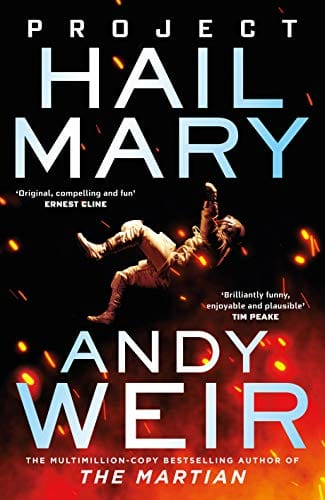
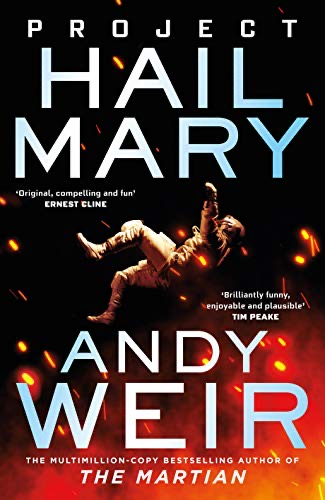
Rebuild Reading page: 99 books in 18 category sections
- New src/data/books.ts generated from the master spreadsheet: 99 unique
  books (one duplicate row removed) grouped into 18 categories in a curated
  order, obvious title typos corrected
- books.astro renders one titled section per category with continuous
  numbering; card markup, placeholder fallback and reveal behaviour unchanged
- 98 cover images normalized (max 460px wide, jpeg q72, 4.9 MB total);
  Portfolio Analysis has no cover yet and renders the blueprint placeholder

diff --git a/src/data/books.ts b/src/data/books.ts
@@ -1,0 +1,204 @@
+// Reading recommendations, grouped by category. Generated from the master
+// spreadsheet (Books.xlsx); covers live in public/images/books/<s>.jpg.
+export interface Book {
+  t: string; // title
+  a: string; // author
+  s: string; // cover slug
+}
+
+export interface BookCategory {
+  name: string;
+  books: Book[];
+}
+
+export const categories: BookCategory[] = [
+  {
+    name: "Tech and Futurism",
+    books: [
+      { t: "Bitcoin Billionaires", a: "Ben Mezrich", s: "bitcoin-billionaires" },
+      { t: "Bold", a: "Peter Diamandis", s: "bold" },
+      { t: "How to Create a Mind", a: "Ray Kurzweil", s: "how-to-create-a-mind" },
+      { t: "The Singularity is Near", a: "Ray Kurzweil", s: "singularity-near" },
+      { t: "Chip War", a: "Chris Miller", s: "chip-war" },
+      { t: "Clean Code", a: "Robert C. Martin", s: "clean-code" },
+      { t: "The Coming Wave", a: "Mustafa Suleyman", s: "the-coming-wave" },
+      { t: "Elon Musk", a: "Walter Isaacson", s: "elon-musk" },
+      { t: "The Second Machine Age", a: "Erik Brynjolfsson & ANdrew McAfee", s: "the-second-machine-age" },
+      { t: "The Inevitable", a: "Kevin Kelley", s: "the-inevitable" },
+      { t: "Boom: Bubbles and the End of Stagnation", a: "Byrne Hobart", s: "boom" },
+      { t: "How We Got To Now", a: "Steven Johnson", s: "how-we-got-to-now" },
+    ],
+  },
+  {
+    name: "Startups & Angel Investing",
+    books: [
+      { t: "Bad Blood", a: "John Carreyrou", s: "bad-blood" },
+      { t: "Blitzscaling", a: "Reid Hoffman", s: "blitzscaling" },
+      { t: "How Google Works", a: "Eric Schmidt", s: "how-google-works" },
+      { t: "Seven Powers: The Foundations of Business Strategy", a: "Hamilton Helmer", s: "seven-powers" },
+      { t: "Angel", a: "Jason Calacanis", s: "angel" },
+      { t: "The Cold Start Problem", a: "Andrew Chen", s: "the-cold-start-problem" },
+      { t: "Amp It Up", a: "Frank Slootman", s: "amp-it-up" },
+      { t: "BUILD", a: "Tony Fadell", s: "build" },
+      { t: "Startup Boards", a: "Brad Feld", s: "startup-boards" },
+      { t: "The Startup Owner's Manual", a: "Steva Blank and Bob Dorf", s: "the-startup-owners-manual" },
+      { t: "Escaping the Build Trap", a: "Melissa Perri", s: "escaping-the-build-trap" },
+      { t: "Product Management in Practice", a: "Matt LeMay", s: "product-management-in-practice" },
+      { t: "Angel Investing", a: "David Rose", s: "angel-investing" },
+      { t: "Zero to IPO", a: "Frederic Kerrest", s: "zero-to-ipo" },
+      { t: "Aiming High", a: "Atsuo Inoue", s: "aiming-high" },
+    ],
+  },
+  {
+    name: "Finance, Venture Capital, Investing & Trading",
+    books: [
+      { t: "Reminiscences of a Stock Operator", a: "Edwin Lefevre", s: "reminiscences-of-a-stock-operator" },
+      { t: "Portfolio Analysis", a: "David Swanson", s: "portfolio-analysis" },
+      { t: "A Man For All Markets", a: "Edward O. Thorp", s: "a-man-for-all-markets" },
+      { t: "Real Options", a: "Martha Amram and Nailin Kulatilaka", s: "real-options" },
+      { t: "Venture Deals", a: "Brad Feld", s: "venture-deals" },
+      { t: "VC - An American History", a: "Thomas Nicholas", s: "vc-american-history" },
+      { t: "The Power Law", a: "Sebastian Mallaby", s: "power-law" },
+      { t: "The Venture Mindset", a: "Ilya Strebulaev", s: "venture-mindset" },
+    ],
+  },
+  {
+    name: "Energy & Commodities",
+    books: [
+      { t: "Trillion Dollar Baby", a: "Paul Cleary", s: "trillion-dollar-baby" },
+      { t: "Crude Volatility", a: "Robert McNally", s: "crude-volatility" },
+      { t: "The Quest", a: "Daniel Yergin", s: "the-quest" },
+      { t: "The Smartest Guys in the Room", a: "Bethany McLean", s: "the-smartest-guys-in-the-room" },
+      { t: "How the World Really Works", a: "Vaclav Smil", s: "how-world-works" },
+      { t: "Volt Rush", a: "Henry Sanderson", s: "volt-rush" },
+      { t: "Material World", a: "Ed Conway", s: "material-world" },
+    ],
+  },
+  {
+    name: "Strategy, Management and Skills",
+    books: [
+      { t: "The Goal", a: "Eliyahu M. Goldratt", s: "the-goal" },
+      { t: "Business Model You", a: "Alexander Osterwalder", s: "business-model-you" },
+      { t: "One Million Followers", a: "Brendan Kane", s: "one-million-followers" },
+      { t: "$100M Leads", a: "Alex Hormozi", s: "100m-leads" },
+      { t: "Oversubscribed", a: "Daniel Priestley", s: "oversubscribed" },
+      { t: "Entrepreneur Revolution", a: "Daniel Priestley", s: "entrepreneur-revolution" },
+      { t: "Key Person of Influence", a: "Daniel Priestley", s: "key-person-of-influence" },
+    ],
+  },
+  {
+    name: "Behaviour and Psychology",
+    books: [
+      { t: "Misbehaving", a: "Richard Thaler", s: "misbehaving" },
+      { t: "Thinking in Bets", a: "Annie Duke", s: "thinking-bets" },
+      { t: "The Signal and the Noise", a: "Nate Silver", s: "the-signal-and-the-noise" },
+      { t: "Nudge", a: "Richard Thaler", s: "nudge" },
+      { t: "Never Split the Difference", a: "Chris Voss", s: "never-split-the-difference" },
+    ],
+  },
+  {
+    name: "Financial History",
+    books: [
+      { t: "When Genius Failed", a: "Roger Lowenstein", s: "when-genius-failed" },
+      { t: "The Ascent of Money", a: "Niall Ferguson", s: "the-ascent-of-money" },
+      { t: "The Man Who Solved the Market", a: "Gregory Zuckerman", s: "the-man-who-solved-the-market" },
+      { t: "Stress Test", a: "Timothy Geithner", s: "stress-test" },
+      { t: "Principles for Dealing with the Changing World Order", a: "Ray Dalio", s: "principles-for-dealing-with-the-changing-world-order" },
+    ],
+  },
+  {
+    name: "Space, Maths, Physics, Chemistry, Biology",
+    books: [
+      { t: "Just Six Numbers", a: "Martin Rees", s: "just-six-numbers" },
+      { t: "Prisoner's Dilemma", a: "William Poundstone", s: "prisoners-dilemma" },
+      { t: "The Case for Mars", a: "Robert Zubrin", s: "the-case-for-mars" },
+      { t: "The Pleasure of Finding Things Out", a: "Richard Feynman", s: "finding-things-out" },
+      { t: "Why We Get Sick", a: "Benjamin Bikman", s: "why-we-get-sick" },
+      { t: "Dark Matter and Dark Energy", a: "Brian Clegg", s: "dark-matter-and-dark-energy" },
+      { t: "Hacking Darwin", a: "Jamie Metzl", s: "hacking-darwin" },
+    ],
+  },
+  {
+    name: "Health & Medicine",
+    books: [
+      { t: "Why We Sleep", a: "Matt Walker", s: "why-we-sleep" },
+      { t: "Lifespan: Why We Age — and Why We Don't Have To", a: "David Sinclair", s: "lifespan" },
+      { t: "Sjarmen med Tarmen", a: "Giulia Enders", s: "sjarmen-med-tarmen" },
+      { t: "The Body - A Guide", a: "Bill Bryson", s: "the-body-a-guide" },
+      { t: "A Planet of Viruses", a: "Carl Zimmer", s: "a-planet-of-viruses" },
+      { t: "Outlive", a: "Peter Attia", s: "outlive" },
+    ],
+  },
+  {
+    name: "Science Fiction",
+    books: [
+      { t: "Dune", a: "Frank Herbert", s: "dune" },
+      { t: "Dune Messiah", a: "Frank Herbert", s: "dune-messiah" },
+      { t: "Snow Crash", a: "Neal Stephenson", s: "snow-crash" },
+      { t: "Journey to the Center of the Earth", a: "Jules Verne", s: "journey-to-the-center-of-the-earth" },
+      { t: "The Three-Body Problem", a: "Cixin Liu", s: "the-three-body-problem" },
+      { t: "Delta V", a: "Daniel Suarez", s: "delta-v" },
+      { t: "The Dark Forest", a: "Cixin Liu", s: "dark-forest" },
+      { t: "Project Hail Mary", a: "Andy Weir", s: "project-hail-mary" },
+      { t: "Death's End", a: "Cixin Liu", s: "deaths-end" },
+    ],
+  },
+  {
+    name: "World History",
+    books: [
+      { t: "Square and the Tower", a: "Niall Fergusson", s: "square-tower" },
+      { t: "The Sovereign Individual", a: "James Dale Davidson", s: "the-sovereign-individual" },
+      { t: "Merchant Kings", a: "Stephen R. Bown", s: "merchant-kings" },
+    ],
+  },
+  {
+    name: "Middle East History & Society",
+    books: [
+      { t: "The History of Modern Lebanon", a: "Fawwaz Traboulsi", s: "the-history-of-modern-lebanon" },
+      { t: "Goodbye Lebanon: Israel's First Defeat", a: "Odd Karsten Tveit", s: "goodbye-lebanon" },
+      { t: "A Line In The Sand", a: "James Barr", s: "a-line-in-the-sand" },
+    ],
+  },
+  {
+    name: "Asian History & Society",
+    books: [
+      { t: "The Invention of China", a: "Bill Hayton", s: "the-invention-of-china" },
+      { t: "Breakneck", a: "Dan Wang", s: "breakneck" },
+    ],
+  },
+  {
+    name: "European History & Society",
+    books: [
+      { t: "Landet som ble for rikt", a: "Martin Beck Holte", s: "landet-som-ble-for-rikt" },
+    ],
+  },
+  {
+    name: "Military History",
+    books: [
+      { t: "Jegerånden", a: "Eirik Kristoffersen", s: "jegeranden" },
+    ],
+  },
+  {
+    name: "Poetry / Literature",
+    books: [
+      { t: "The Prophet", a: "Kahlil Gibran", s: "the-prophet" },
+      { t: "Joy in the Morning", a: "P.G. Woodehouse", s: "joy-in-the-morning" },
+      { t: "Jeeves & The Yule-Tide Spirit", a: "P.G. Woodehouse", s: "jeeves-and-the-yule-tide-spirit" },
+      { t: "Around the World in 80 Days", a: "Jules Verne", s: "around-the-world-in-80-days" },
+      { t: "Atlas Shrugged", a: "Ayn Rand", s: "atlas-shrugged" },
+      { t: "The Fountainhead", a: "Ayn Rand", s: "the-fountainhead" },
+    ],
+  },
+  {
+    name: "Philosophy",
+    books: [
+      { t: "Sophie's World", a: "Jostein Gaarder", s: "sophies-world" },
+    ],
+  },
+  {
+    name: "Wine, Art & Culture",
+    books: [
+      { t: "The Art and Life of Chaouki Chamoun", a: "Chaouki Chamoun", s: "the-art-and-life-of-chaouki-chamoun" },
+    ],
+  },
+];
